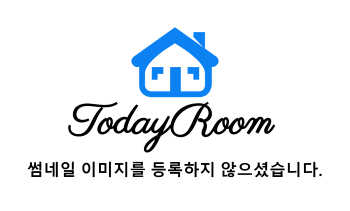
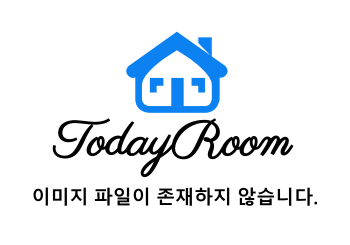
파일 이미지 존재 여부에 따라 대체 이미지 수정

diff --git a/todaysroom/src/main/java/kosta/todayroom/controller/BoardUploadController.java b/todaysroom/src/main/java/kosta/todayroom/controller/BoardUploadController.java
@@ -6,6 +6,7 @@ import java.io.IOException;
 import java.io.UnsupportedEncodingException;
 import java.net.URLDecoder;
 import java.nio.file.Files;
+import java.nio.file.NoSuchFileException;
 import java.text.SimpleDateFormat;
 import java.util.ArrayList;
 import java.util.Date;
@@ -146,6 +147,7 @@ public class BoardUploadController {
 			result = new ResponseEntity<>(FileCopyUtils.copyToByteArray(file), header, HttpStatus.OK);
 		} catch (IOException e) {
 			e.printStackTrace();
+			
 		}
 		return result;
 	}

diff --git a/todaysroom/src/main/java/kosta/todayroom/controller/BoardController.java b/todaysroom/src/main/java/kosta/todayroom/controller/BoardController.java
@@ -49,6 +49,11 @@ public class BoardController {
 			cri.setRoomwarming(roomwarming);
 		}
 		
+		log.info("여기");
+		log.info(service.boardListAttach(cri));
+		
+		model.addAttribute("boardAttachList", service.boardListAttach(cri));
+		
 		model.addAttribute("board", service.boardList(cri));
 
 		int total = service.boardTotalCount(cri);

diff --git a/todaysroom/src/main/java/kosta/todayroom/service/BoardService.java b/todaysroom/src/main/java/kosta/todayroom/service/BoardService.java
@@ -12,6 +12,9 @@ import kosta.todayroom.domain.RoomwarmingVO;
 
 public interface BoardService {
 	public List<BoardVO> boardList(BoardCriteria cri);
+	
+	public List<BoardVO> boardListAttach(BoardCriteria cri);
+	
 	public RoomwarmingVO roomwarming(int board_seq);
 	public KnowhowVO knowhow(int board_seq);
 	

diff --git a/todaysroom/src/main/java/kosta/todayroom/mapper/BoardMapper.java b/todaysroom/src/main/java/kosta/todayroom/mapper/BoardMapper.java
@@ -13,6 +13,8 @@ public interface BoardMapper {
 	public List<BoardVO> List();
 	public List<BoardVO> ListPaging(BoardCriteria cri);
 	
+	public List<BoardVO> boardListAttach(BoardCriteria cri);
+	
 	public RoomwarmingVO roomwarming(int board_seq);
 	public KnowhowVO knowhow(int board_seq);
 	

diff --git a/todaysroom/src/main/java/kosta/todayroom/service/BoardServiceImpl.java b/todaysroom/src/main/java/kosta/todayroom/service/BoardServiceImpl.java
@@ -161,4 +161,9 @@ public class BoardServiceImpl implements BoardService {
 		return mapper.removeAttach(board_seq) == 1;
 	}
 
+	@Override
+	public List<BoardVO> boardListAttach(BoardCriteria cri) {
+		return mapper.boardListAttach(cri);
+	}
+
 }
